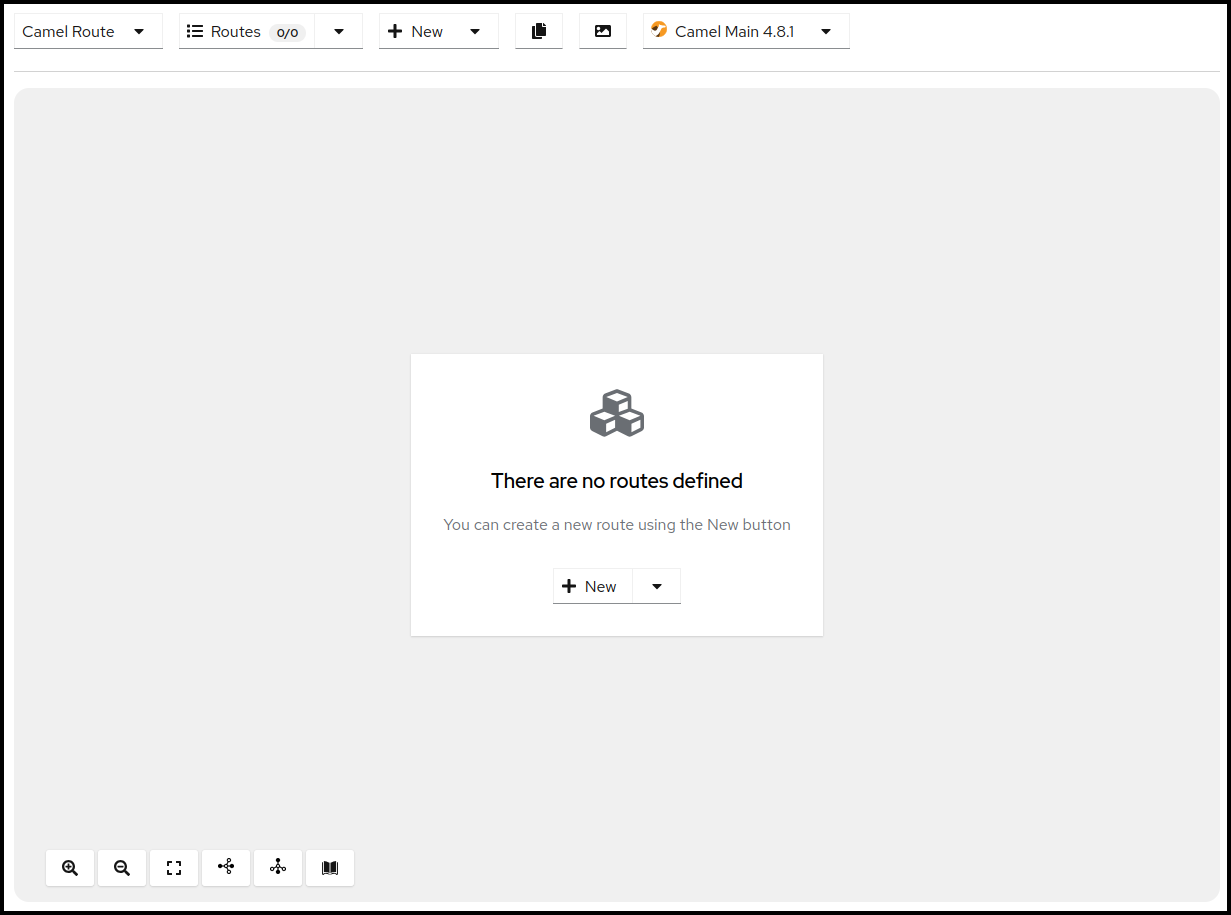
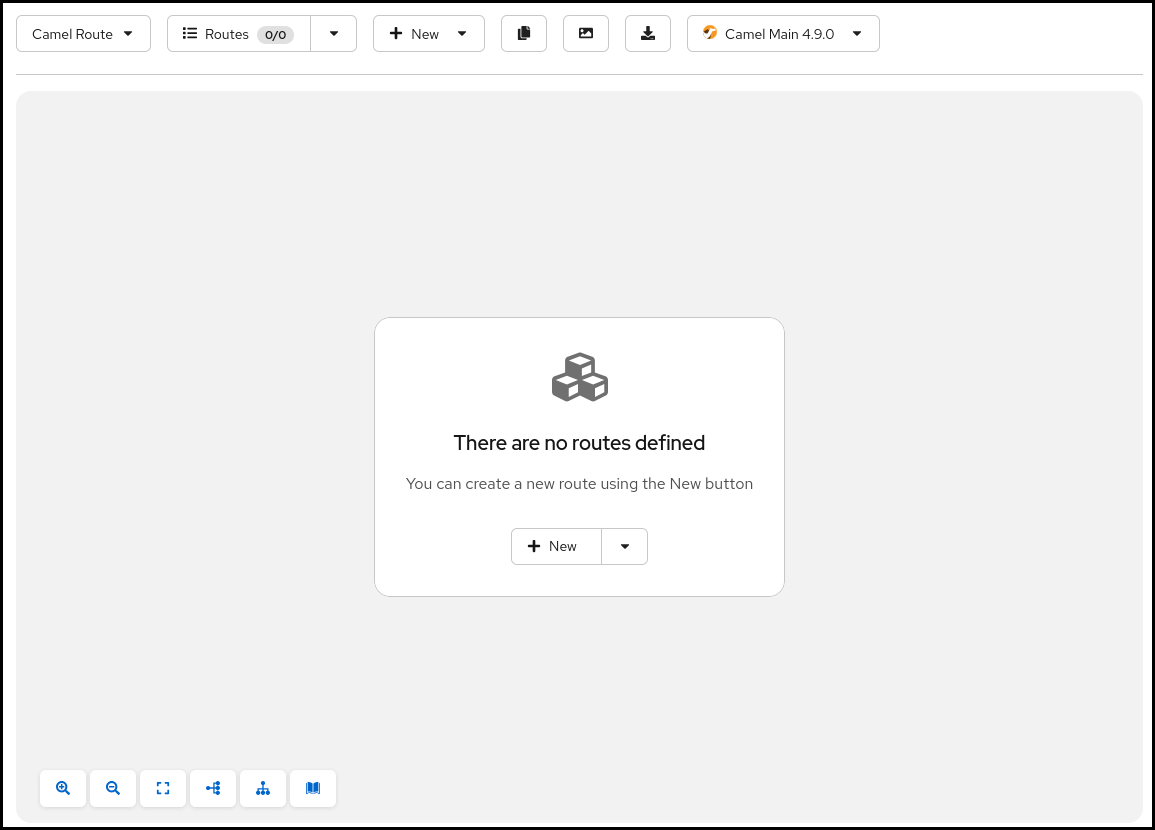
added the new route documentation feature to the user manual

diff --git a/content/docs/manual/03_designer/index.md b/content/docs/manual/03_designer/index.md
@@ -19,10 +19,11 @@ The following picture shows the different parts of the Kaoto Visual Editor.
 6. Drop down enabling you to add more Routes or other global elements to your integration. **Only visible for Camel Routes!**
 7. Copies the full source code of your integration to the Clipboard
 8. Exports the currently visible Integration as a PNG image
-9. Drop down showing the available Camel versions. Different runtimes are available, like Camel Main, Springboot and Quarkus.
-10. This button bar provides you with functionalities like Zoom In / Out, Reset the View, Switching the layout direction between horizontal and vertical and grants you access to the comprehensive Camel Catalog, containing all the available Components/Connectors, Enterprise Integration Patterns and Kamelets
+9. Generate a documentation for your integration and download it in Markdown format.
+10. Drop down showing the available Camel versions. Different runtimes are available, like Camel Main, Springboot and Quarkus.
 11. A step in your Integration with an **Error**-Marker to indicate a problem with the configuration of the step.
 12. The toolbar of the selected step. It provides available actions for the current selection.
+13. This button bar provides you with functionalities like Zoom In / Out, Reset the View, Switching the layout direction between horizontal and vertical and grants you access to the comprehensive Camel Catalog, containing all the available Components/Connectors, Enterprise Integration Patterns and Kamelets
 
 ### Working with Camel Routes
 In [Apache Camel](https://camel.apache.org), a route is a set of processing steps that are applied to a message as it travels from a source to a destination. A route typically consists of a series of processing steps that are connected in a linear sequence.
@@ -108,3 +109,14 @@ Alternatively you can enable / disable any step in your route by invoking the co
 ![Showing a disabled step](disabled-step.png)
 
 In the picture above the **Log** component has been disabled. The icon is grayed out and there is a marker icon at the top right of the step to indicate it is disabled.
+
+#### Generate Integration Documentation
+You can use the built-in documentation generating feature to create a Markdown file containing all the steps in your integration and all the changed parameters for these steps together with an image of your integration. 
+
+![A screenshot showing the generate documentation button](generate-docs-button.png)
+
+When you click the button it will open up a dialog with a preview of your integration documentation. 
+
+![A screenshot showing the generate documentation dialog](generate-documentation.png)
+
+You can use the **Visible Entities** control in the top left of the dialog to control which routes are part of the documentation. You can either select all, just a subset or even just a single route. Once you have made your choice you can specify a file name in the top right and then hit the **Download** button to retrieve the file in ZIP format. 
